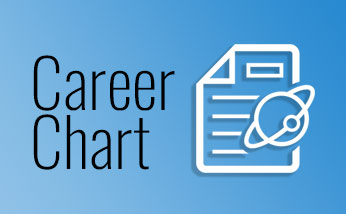
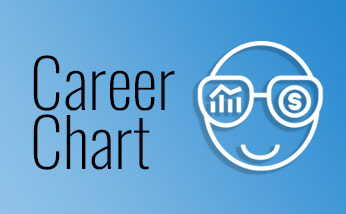
home fixes

Changed region(s): [[0.5491, 0.1682, 0.9538, 0.8411]]

diff --git a/assets/css/_sass/_shelf.scss b/assets/css/_sass/_shelf.scss
@@ -6,11 +6,11 @@ body {
 }
 .shelf-header {
   padding: 0;
-  margin: 0px;
+  margin: 0px 0 10px 0;
 }
 .shelf-header-content {
   color: black;
-  width:240px;
+  width:640px;
   padding: 10px 0 10px 0;
   margin: 0px 0 0 60px;
   text-align: left;
@@ -20,7 +20,11 @@ body {
   padding: 0;
   margin: 0;
 }
-
+.header-image img {
+  float:left;
+  width: 40px;
+  margin: 0 6px 0 2px;
+}
 .shelf-author {
   color: #b300b3;
   padding: 0px 0 0px 0;
@@ -225,4 +229,28 @@ body {
   .shelf-background {
     background-size: contain;
   }
+  .shelf-header-content {
+    width:100vw;
+    padding: 10px 0 10px 0;
+    margin: 0px 0 0 60px;
+  }
+  .shelf-subhead {
+    width:100vw;
+  }
+  .shelf-subhead-description h111{
+    line-height: 1.1em;
+    font-size: 3.4em;
+  }
+  .shelf-subhead-description {
+    width: 100vw;
+    margin: 0px 0 0 60px;
+    padding: 20px 0 0px 0;
+    font-size: 1em;
+  }
+  .shelf-subhead-cta {
+    width: 80vw;
+    margin: 0px 0 0 60px;
+    padding: 20px 0 0px 0;
+  }
+
 }

diff --git a/_layouts/shelf.html b/_layouts/shelf.html
@@ -1,22 +1,11 @@
 <!doctype html>
 <html>
-  <!--- BACKGROUND IMAGE -->
-  <div class="shelf-background" {% if page.bgimage %} style="background-image: url(../../assets/img/{{ page.bgimage }})"{% endif %}>
     {% include head.html %}
     <header class="shelf-header">
       <div class="shelf-header-content">
+        <span class="header-image"><img src="{{ site.github.url }}/assets/img/{{ page.image }}" ></span>
         <h8><span class="shelf-headhead">{{ page.header }}</span></h8>
-        <img src="../../assets/img/{{ page.image }}"><br>
       </div>
-
-<!--
-<h111><span class="shelf-author">{{ page.author }}</span></h111>
-    <div class="shelf-header-cta">
-       {% if page.bgimage %}
-      <h7>{{ page.cta }}</h7>
-      {% endif %}
-    </div>
-  -->
     </header>
     <body>
       <div class="shelf-subhead-wrapper">
@@ -32,5 +21,4 @@
         {% include footer.html %}
       </div>
     </body>
-  </div> <!-- background image -->
 </html>

diff --git a/readings.md b/readings.md
@@ -1,13 +1,13 @@
----
+<!---
 layout: shelf
 title:
 header: Clarkinia Astrology
-image: noun_1546369_cc.svg
+image: store_buttons_career.jpg
 subhead: straightforward intuitive guidance
 author: with Regina Clarkinia
 cta: Choose a reading based on what you need now.
 ---
-<!-- bgimage: store_home_bg_1200px_bags_bags_all_type_of_bags.jpg -->
+<!-- bgimage: store_home_bg_1200px_bags_bags_all_type_of_bags.jpg
 <body>
 <article class="store">
   <div class="store-items">
@@ -31,11 +31,12 @@ cta: Choose a reading based on what you need now.
           <div class="store-testimonial">
             <h15>"{{ reading.testimonial }}" —{{ reading.testimonial-auth}}</h15>
           </div>
-        </div> <!-- closes store-top -->
+        </div> <!-- closes store-top
         </a>
       </li>
       {% endfor %}
     </ul>
-  </div><!-- closes store-items -->
+  </div><!-- closes store-items
 </article>
 </body>
+-->

diff --git a/_readings/career.md b/_readings/career.md
@@ -10,7 +10,7 @@ form-byline: Find out what makes you tick
 description: The Career Chart looks what roles you perform in the workplace, how to capitalize on your talents and how you gain status, success and prominence.
 testimonial: Regina helped me realize where my power was for my career, how to best handle issues that arise in that domain, and what to simply not worry about anymore.
 testimonial-auth: A.C.
-button: store_buttons_career.jpg
+button: store_buttons_career2.jpg
 cta: Order a career astrology chart
 money-offer: Get your chart for $150
 bgimage: store-form-career-background3.jpg
@@ -21,4 +21,4 @@ cart-url: careercart
 <!-- STORE -->
 - 1-hour consultation
 - personalized career chart pdf
-- unique astrology career indicators
+- career indicators in your chart

diff --git a/index.md b/index.md
@@ -3,6 +3,7 @@
 # To modify the layout, see https://jekyllrb.com/docs/themes/#overriding-theme-defaults
 layout: shelf
 title:
+image: noun_453394_cc.gif
 header: Clarkinia Astrology
 subhead: straightforward intuitive guidance
 author: with Regina Clarkinia

diff --git a/_readings/natal.md b/_readings/natal.md
@@ -21,4 +21,4 @@ cart-url: natalcart
 <!-- STORE -->
 - 1-hour consultation
 - personalized natal chart pdf
-- life patterns, family and relationship
+- personality and relationship patterns
